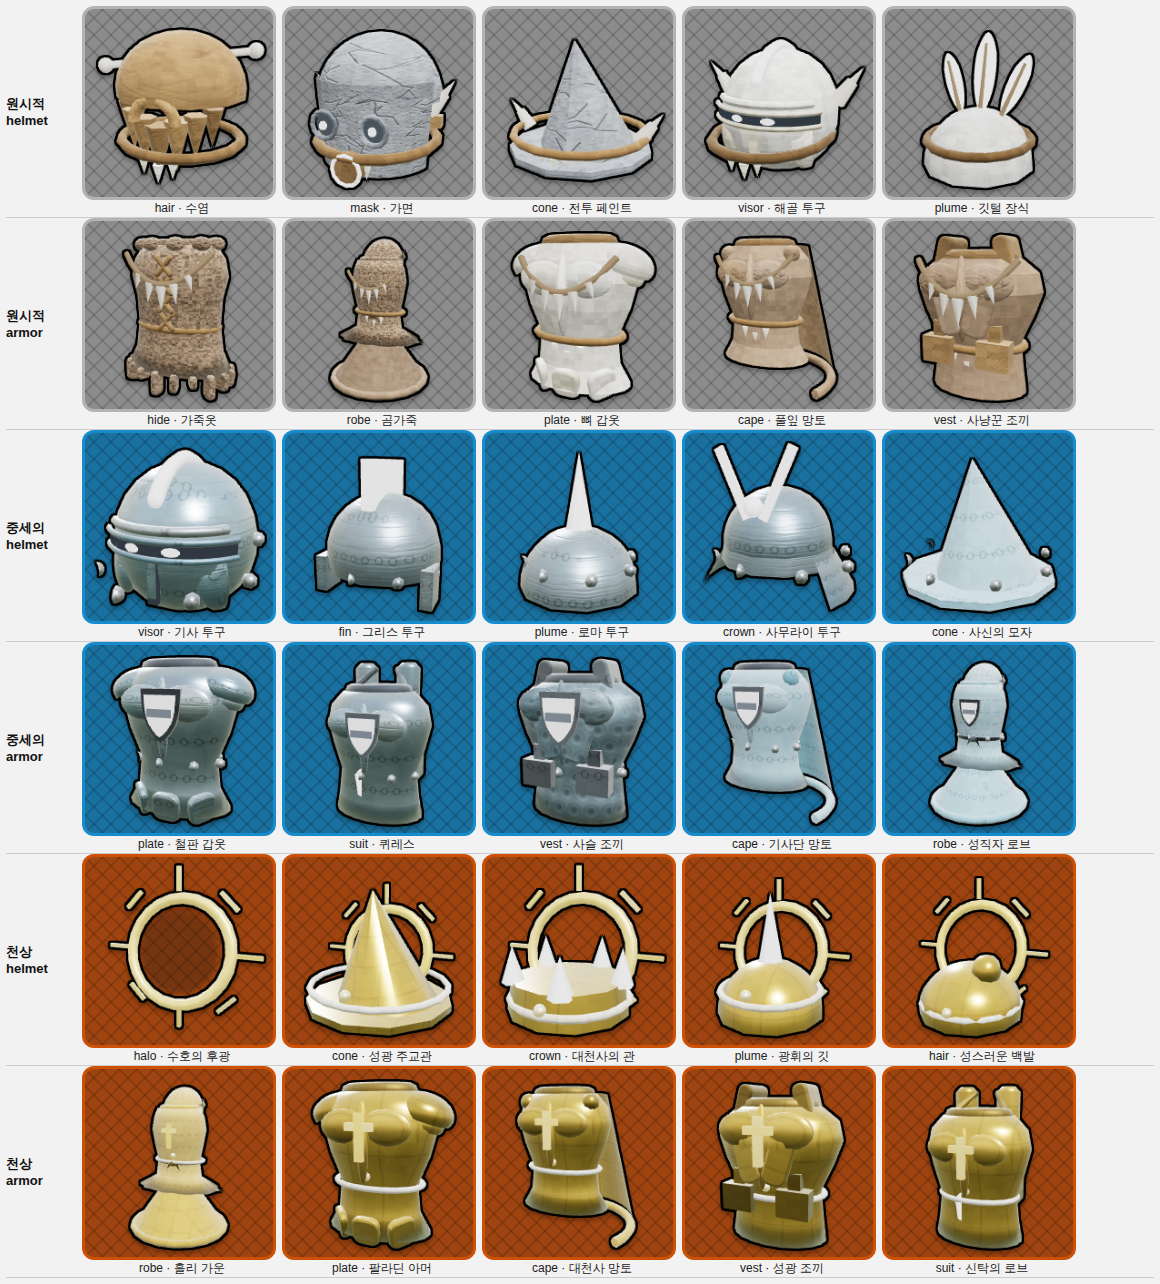
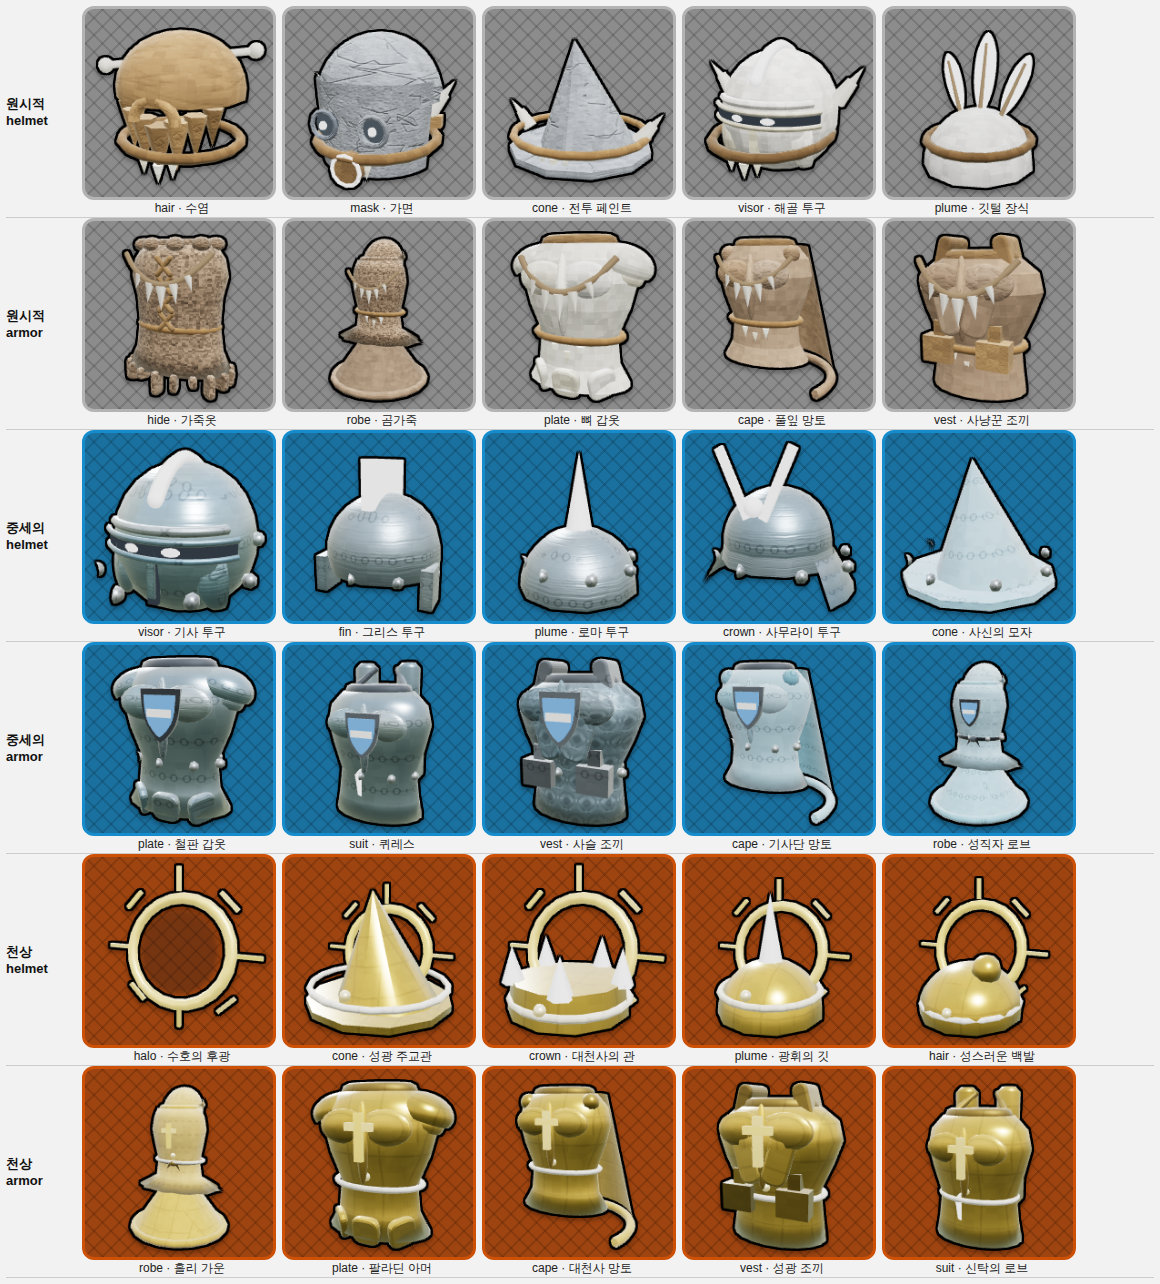
사슬 맞물림 격자 + 문장 유채색 — 메일 고리를 반 칸 대각 이중 격자로 겹쳐 '프린트 점 나열' 해소(빈 격자 0에 아랫호 감산이 지워지는 max 합성 함정 기록), 무채색 등급 문장 필드를 아주르(0x2456a8)+은 페스로 폴백('회색 스티커' 해소, 유채 등급색은 유지), probe-equip-dedupe 306칸 전건 고유·지각 중복 0쌍 PASS (equip-era-theming)

diff --git a/web/js/scene3d.js b/web/js/scene3d.js
@@ -3902,7 +3902,7 @@ const Scene3D = {
         // 종전엔 chain 몸통이 계열(forged)의 리벳 무늬를 그대로 물어 '동그라미 한 줄 프린트'로
         // 읽혔다(1차 채점 B). 사슬은 리벳이 아니라 **엇갈린 고리들이 맞물린 직물**이다 — 행마다
         // 반 칸 어긋난 고리 + 고리 사이 틈 그늘 + 고리 윗호 하이라이트가 메일의 서명.
-        chain: { mode: 'mail', freq: 16, amp: 0.50, vary: 0.035, vfreq: 20 },
+        chain: { mode: 'mail', freq: 13, amp: 0.50, vary: 0.035, vfreq: 20 },
         soft: { mode: 'stitch', freq: 12, amp: 0.26, vary: 0.060, vfreq: 20 },   // 천·가죽: 바늘땀 + 주름
         'soft:primal': { mode: 'stitch', freq: 11, amp: 0.44, vary: 0.070, vfreq: 20, grain: 0.95, grainF: 6.5 }, // 거친 생가죽 — 땀이 굵고 얼룩이 크다(현대 기술섬유와 거칠기가 갈려야 한다)
         'soft:forged': { mode: 'stitch', freq: 12, amp: 0.26, vary: 0.060, vfreq: 20 }, // 모직
@@ -3943,17 +3943,29 @@ const Scene3D = {
             // 메일(사슬 갑옷): 행마다 반 칸 어긋난 고리 격자. 고리 안 구멍은 밑감 그늘로 꺼지고
             // 고리 자체는 윗호가 빛을 받아 밝고 아랫호가 어둡다 — 이 두 값 대비가 '금속 고리 직물'을
             // 만든다. 리벳(rivet)과 달리 **전면에 깔리는 게 맞다** — 사슬은 무늬가 아니라 재질 자체다.
+            // ⚠ 고리를 격자당 한 개(반지름 < 반 칸)로 두지 말 것 — 고리끼리 안 닿아 '프린트된
+            //    물방울 점 나열'로 읽힌다(2차 채점 A·B 공통 "파자마 무늬"). 실제 메일은 고리가
+            //    이웃 고리에 **맞물린다** — 반 칸 대각 오프셋의 두 번째 격자를 겹쳐, 고리 지름을
+            //    격자 간격까지 키워 서로 걸리게 한다(대각 중심거리 0.707 < 지름 1.0).
             '\tvec2 muv = uv2 * ' + f(d.freq) + ';',
             '\tmuv.x += mod(floor(muv.y), 2.0) * 0.5;',
             '\tvec2 mc = fract(muv) - 0.5;',
             '\tfloat md = length(mc);',
-            '\tfloat mRing = smoothstep(0.50, 0.40, md) - smoothstep(0.32, 0.22, md);',
-            '\tfloat mHole = smoothstep(0.28, 0.08, md);',
+            '\tvec2 mc2 = fract(muv + vec2(0.5, 0.5)) - 0.5;',
+            '\tfloat md2 = length(mc2);',
+            '\tfloat mRing = smoothstep(0.56, 0.46, md) - smoothstep(0.38, 0.28, md);',
+            '\tfloat mRing2 = smoothstep(0.56, 0.46, md2) - smoothstep(0.38, 0.28, md2);',
             '\tfloat mArc = clamp(-mc.y / max(md, 1e-4), 0.0, 1.0);',
+            '\tfloat mArc2 = clamp(-mc2.y / max(md2, 1e-4), 0.0, 1.0);',
+            // 틈 그늘: 두 격자 어느 고리에도 안 덮인 자리만 꺼진다 — 한 격자만 보면 고리 사이가
+            // 전부 구멍이라 점무늬가 더 심해진다
+            '\tfloat mHole = smoothstep(0.30, 0.10, md) * (1.0 - mRing2);',
             '\tdiffuseColor.rgb *= 1.0 - dAmp * 0.72 * mHole;',
-            // 고리: 윗호 가산(0.55)·아랫호 감산(0.30) — 제로 평균에 가깝게(grain 모드의 교훈:
-            // 한쪽으로만 밀면 평균 휘도가 내려가 probe-age-shading 의 재질분리가 무너진다)
-            '\tdiffuseColor.rgb *= 1.0 + dAmp * mRing * (mArc * 0.85 - 0.30);',
+            // 고리: 윗호 가산·아랫호 감산 — 제로 평균에 가깝게(grain 모드의 교훈: 한쪽으로만 밀면
+            // 평균 휘도가 내려가 probe-age-shading 의 재질분리가 무너진다). 겹침 부위는 마스크가
+            // 강한 쪽 고리가 이긴다(max 로 합치면 아랫호 감산이 빈 격자의 0에 지워진다 — 함정).
+            '\tfloat mSh = (mRing >= mRing2) ? mRing * (mArc * 0.85 - 0.30) : mRing2 * (mArc2 * 0.85 - 0.30);',
+            '\tdiffuseColor.rgb *= 1.0 + dAmp * mSh;',
         ];
         if (d.mode === 'panel') {
             const g = d.glow !== undefined ? new THREE.Color(d.glow) : null;
@@ -4956,11 +4968,16 @@ const Scene3D = {
         };
         const rimM = mats ? this.tintOf(mats.dark, -0.04) : new THREE.MeshLambertMaterial({ color: 0x3a4652 });
         const base = new THREE.Mesh(new THREE.ExtrudeGeometry(shieldShape(1), { depth: h * 0.1, bevelEnabled: false }), rimM);
+        // 문장 필드는 유채색이어야 문장이다 — 무채색 등급(일반 0xd6d6d6)을 그대로 쓰면 '회색 사각
+        // 스티커'로 읽힌다(2차 채점 A·B 공통). 채도가 없는 등급색만 문장 아주르(짙은 파랑)로 폴백하고,
+        // 유채 등급색(레어 파랑·에픽 초록…)은 등급 정보 그대로 둔다.
+        const rHSL = new THREE.Color(rareHex).getHSL({ h: 0, s: 0, l: 0 });
+        const fieldHex = rHSL.s < 0.25 ? 0x2456a8 : rareHex;
         const field = new THREE.Mesh(new THREE.ExtrudeGeometry(shieldShape(0.78), { depth: h * 0.05, bevelEnabled: false }),
-            new THREE.MeshLambertMaterial({ color: rareHex, emissive: rareHex, emissiveIntensity: 0.22 }));
+            new THREE.MeshLambertMaterial({ color: fieldHex, emissive: fieldHex, emissiveIntensity: 0.22 }));
         field.position.z = h * 0.1;
-        // 페스는 필드와 명도가 갈려야 문장이다 — 밝은 필드(일반=흰색)엔 어두운 강철, 어두운 필드엔 은빛
-        const fessC = new THREE.Color(rareHex).getHSL({ h: 0, s: 0, l: 0 }).l > 0.55 ? 0x39424d : 0xe8e6df;
+        // 페스는 필드와 명도가 갈려야 문장이다 — 밝은 필드엔 어두운 강철, 어두운 필드(아주르)엔 은빛
+        const fessC = new THREE.Color(fieldHex).getHSL({ h: 0, s: 0, l: 0 }).l > 0.55 ? 0x39424d : 0xe8e6df;
         const fess = new THREE.Mesh(new THREE.BoxGeometry(w * 0.62, h * 0.15, h * 0.03),
             new THREE.MeshLambertMaterial({ color: fessC }));
         fess.position.set(0, h * 0.06, h * 0.155);
